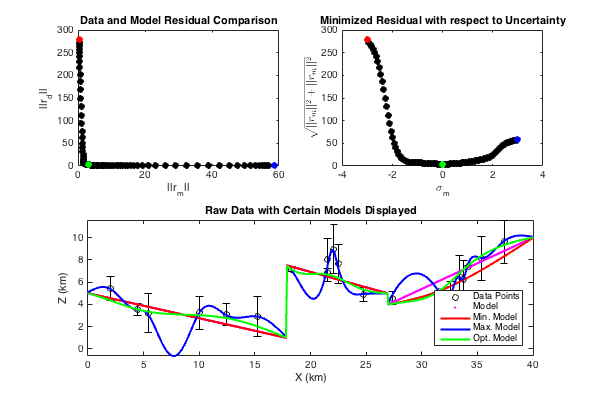
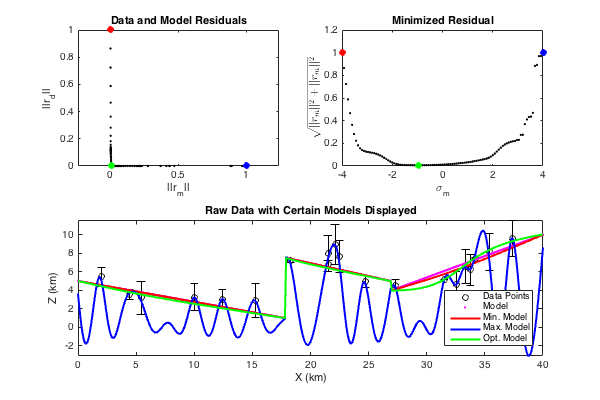
Prepared for final draft

diff --git a/Homework/HorizonInterpolation/HorizonInterpolation.m b/Homework/HorizonInterpolation/HorizonInterpolation.m
@@ -35,17 +35,17 @@ function HorizonInterpolation()
     S_mv = logspace(-4,4,iter);
     
     % Uncomment the below section to add in a fault
-%     x1 = 18;
-%     x2 = 27;
-%     ix1 = round((x1-x_min)./(x_delta));
-%     ix2 = round((x2-x_min)./(x_delta));
-%     W_mk(ix1, ix1-1) = 0;
-%     W_mk(ix1-1, ix1) = 0;
-%     W_mk(ix2, ix2+1) = 0;
-%     W_mk(ix2+1, ix2) = 0;
-%     z_model(1:(ix1-1)) = linspace(5,1,ix1-1);
-%     z_model(ix1:ix2) = linspace(7.5,5,ix2-ix1+1);
-%     z_model((ix2+1):length(z_model)) = linspace(4,10,length(z_model)-ix2);
+    x1 = 18;
+    x2 = 27;
+    ix1 = round((x1-x_min)./(x_delta));
+    ix2 = round((x2-x_min)./(x_delta));
+    W_mk(ix1, ix1-1) = 0;
+    W_mk(ix1-1, ix1) = 0;
+    W_mk(ix2, ix2+1) = 0;
+    W_mk(ix2+1, ix2) = 0;
+    z_model(1:(ix1-1)) = linspace(5,1,ix1-1);
+    z_model(ix1:ix2) = linspace(7.5,5,ix2-ix1+1);
+    z_model((ix2+1):length(z_model)) = linspace(4,10,length(z_model)-ix2);
     
     for i=1:iter
         W_m = W_mk./(S_mv(i));
